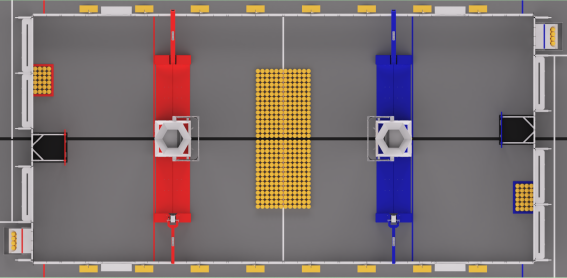
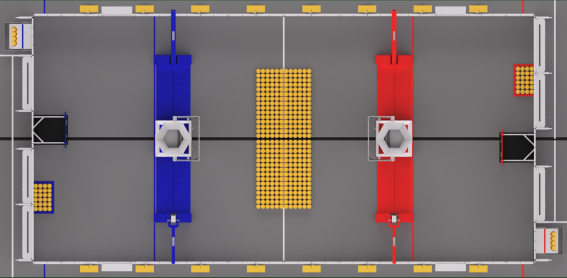
horiz flipping images for 2026 field

Changed region(s): [[0.0, 0.0, 1.0, 1.0], [0.4497, 0.0576, 0.5697, 0.9209]]

diff --git a/other_robots/practicebot/helpers/apriltag_utils.py b/other_robots/practicebot/helpers/apriltag_utils.py
@@ -8,7 +8,9 @@ from wpimath.geometry import Pose2d, Rotation2d, Translation2d
 if wpilib.RobotBase.isSimulation():
     layout = robotpy_apriltag.AprilTagFieldLayout('2026-rebuilt-welded_json')
 else:
-    layout = robotpy_apriltag.AprilTagFieldLayout.loadField(robotpy_apriltag.AprilTagField.k2025ReefscapeWelded)
+    #layout = robotpy_apriltag.AprilTagFieldLayout.loadField(robotpy_apriltag.AprilTagField.k2025ReefscapeWelded)
+    layout = robotpy_apriltag.AprilTagFieldLayout('/home/lvuser/py/2026-rebuilt-welded_json')
+
 
 # Pre-calculate tag positions for plotting or other uses
 tag_positions = {tag_id: layout.getTagPose(tag_id).translation().toTranslation2d()

diff --git a/other_robots/practicebot/constants.py b/other_robots/practicebot/constants.py
@@ -6,7 +6,7 @@ from rev import ClosedLoopSlot, SparkClosedLoopController, SparkFlexConfig, Spar
 from wpimath.geometry import Pose2d, Rotation2d, Translation2d, Transform2d
 from wpimath.units import inchesToMeters, lbsToKilograms
 
-k_swerve_config = "practice"
+k_swerve_config = "comp"
 
 # TODO - organize this better
 k_enable_logging = False  # allow logging from Advantagescope (in swerve.py), but really we may as well start it here
